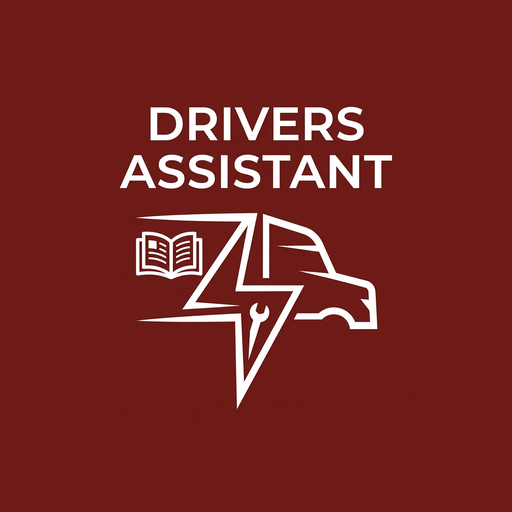
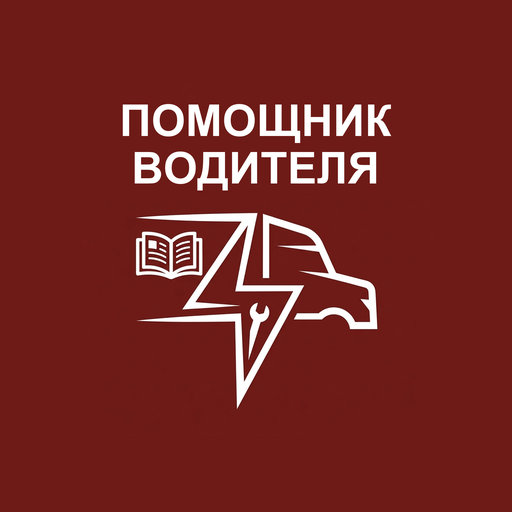
Add files via upload

Changed region(s): [[0.2188, 0.1875, 0.7812, 0.375]]

diff --git a/index.html b/index.html
@@ -13,10 +13,10 @@
 <meta name="theme-color" content="#2C3136">
 <meta name="apple-mobile-web-app-capable" content="yes">
 <meta name="apple-mobile-web-app-status-bar-style" content="black-translucent">
-<meta name="apple-mobile-web-app-title" content="Driver's assistant">
+<meta name="apple-mobile-web-app-title" content="Помощник водителя">
 <link rel="apple-touch-icon" href="./icon-192.png">
 <link rel="manifest" href="./manifest.webmanifest">
-<title>Driver's assistant</title>
+<title>Помощник водителя</title>
 <style>
   @import url('https://fonts.googleapis.com/css2?family=Golos+Text:wght@400;500;600;700&family=Oswald:wght@400;500;600&display=swap');
 
@@ -814,7 +814,7 @@
            stroke-linecap="round" stroke-linejoin="round"><path d="m15 18-6-6 6-6"/></svg>
     </button>
     <div class="head-txt">
-      <span class="logo-txt">Driver's assistant</span>
+      <span class="logo-txt">Помощник водителя</span>
       <span class="sub" id="head-sub"></span>
     </div>
     <span id="pending" hidden></span>

diff --git a/app.js b/app.js
@@ -4,7 +4,7 @@
 const CONFIG = {
   API_URL: 'https://script.google.com/macros/s/AKfycbynbShMxoDI44rrbZRf-KlqZtjbi89RnmeDtw--V60gidjyUdr03sDW-fHz8pW-sJ7w/exec',
   SHARED_TOKEN: 'primum-fleet-8842-xyz',
-  APP_VERSION: '2.8.0',
+  APP_VERSION: '2.8.1',
   SERVICE_CENTERS: ['Минск', 'Челябинск', 'Улан-Удэ', 'Алматы']
   // Список сотрудников и автопарк грузятся с сервера (листы Employees и Fleet)
   // и кэшируются в IndexedDB. Пароли на клиент не передаются никогда.
@@ -2157,7 +2157,7 @@ function finishDocPage(work, quad, sheetFound, t0) {
 function docFileName(page, i) {
   const d = new Date(page.created_at || Date.now());
   const two = (n) => (n < 10 ? '0' : '') + n;
-  return 'Drivers-assistant_' + d.getFullYear() + '-' + two(d.getMonth() + 1) + '-' + two(d.getDate()) +
+  return 'Pomoshchnik-voditelya_' + d.getFullYear() + '-' + two(d.getMonth() + 1) + '-' + two(d.getDate()) +
          '_' + (i + 1) + '.jpg';
 }
 

diff --git a/sw.js b/sw.js
@@ -1,5 +1,5 @@
 /* PRIMUM service worker — офлайн-оболочка + фоновая досылка ответов. */
-const CACHE = 'primum-shell-v26';
+const CACHE = 'primum-shell-v27';
 const SHELL = [
   './',
   './index.html',
